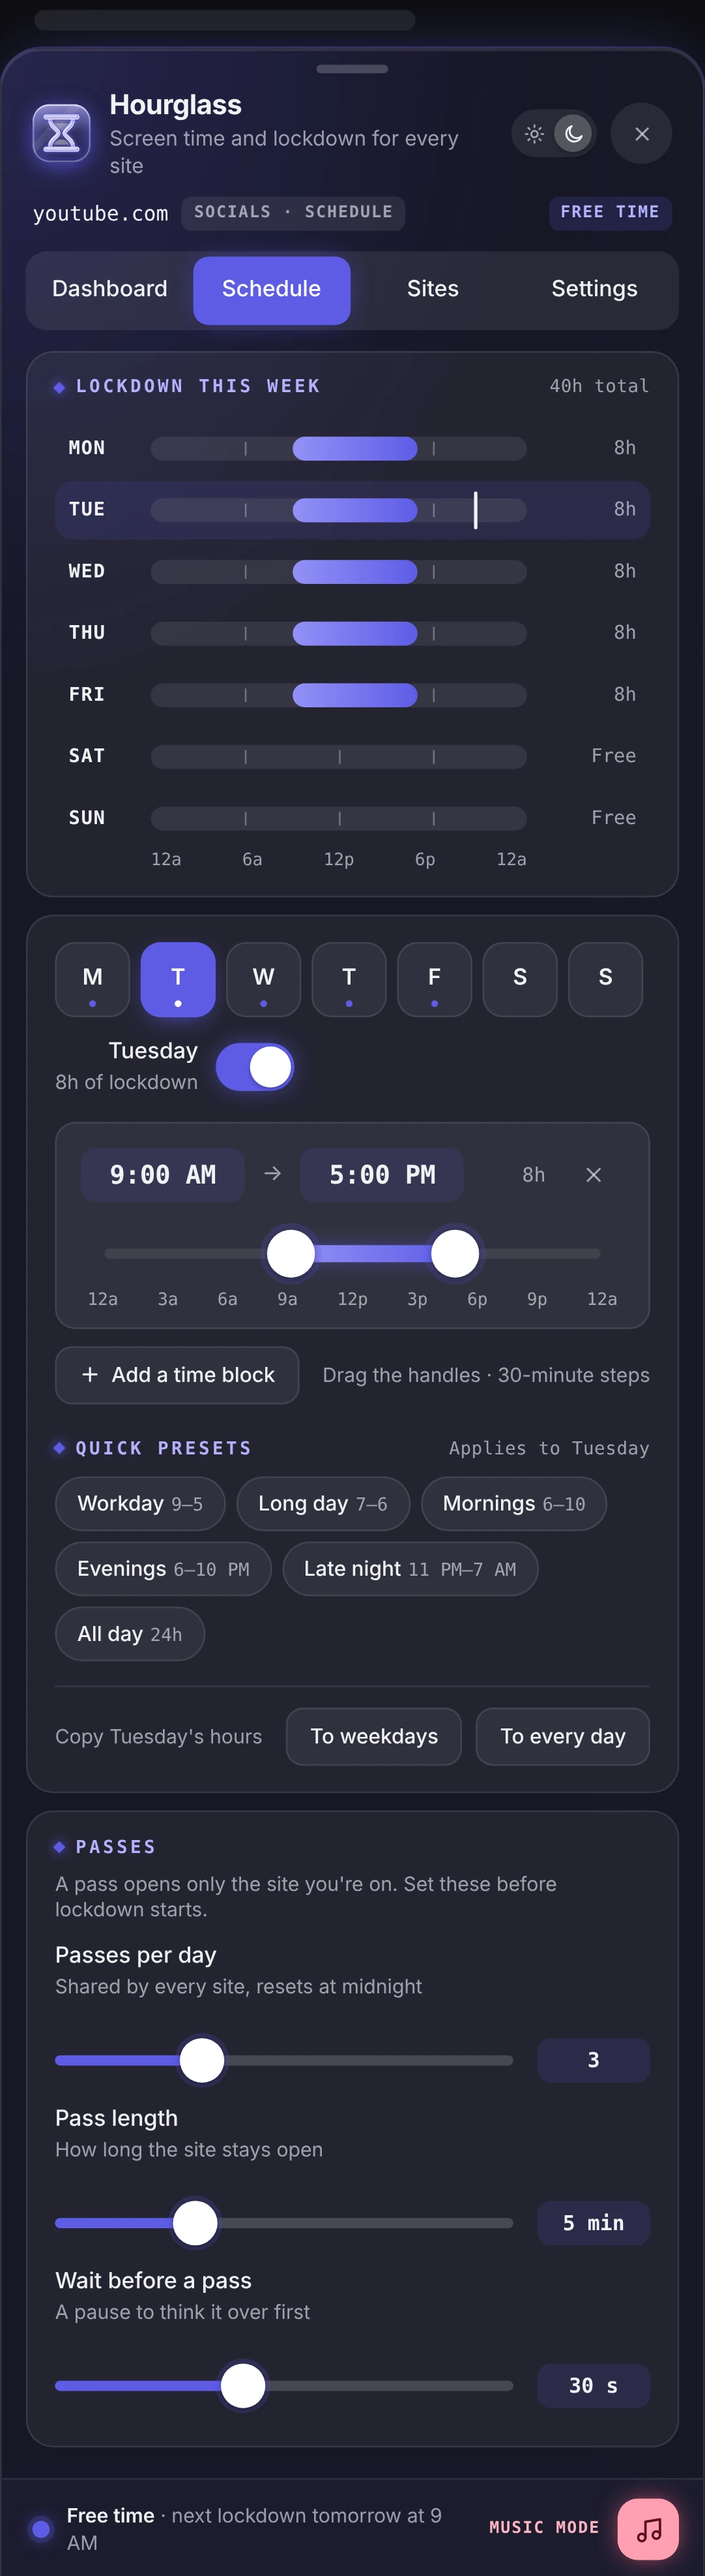
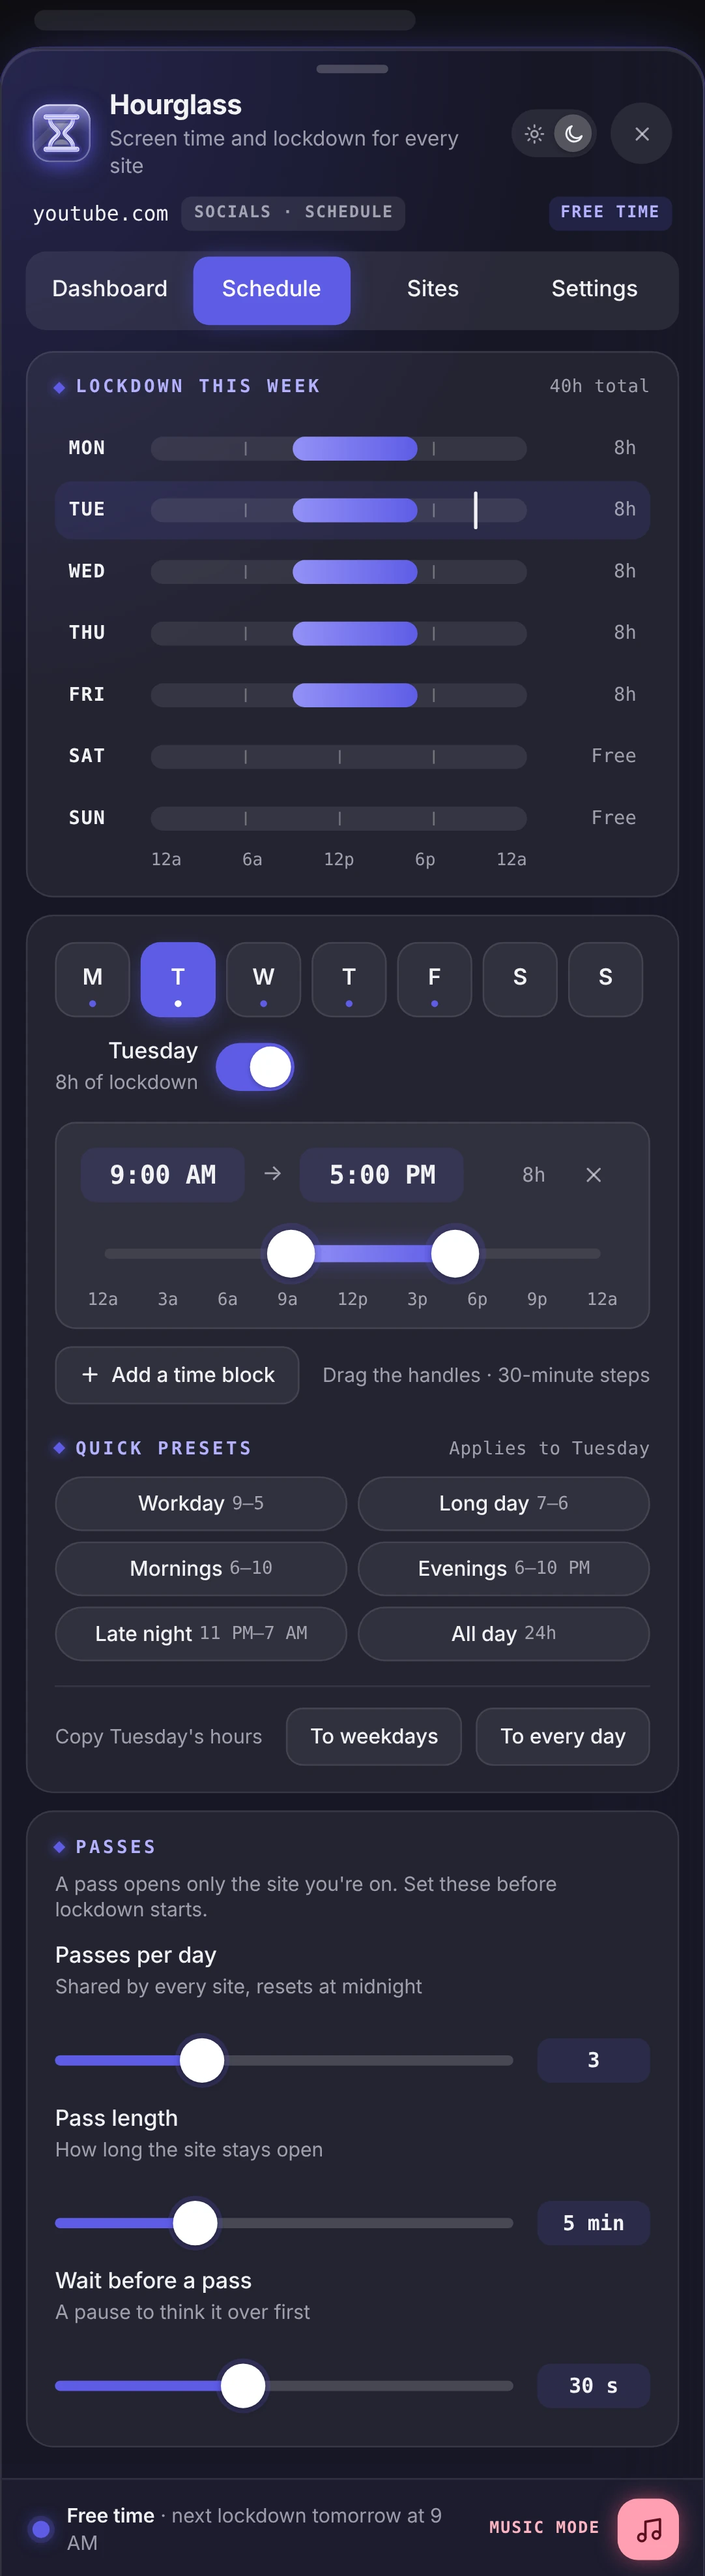
Hourglass 1.5.2: button groups sit in equal columns instead of wrapping unevenly
- Your data: the four buttons are one row on desktop and a 2 x 2 grid of equal
  buttons on phones (they wrapped 2 + 2 with Reset pushed off to the right)
- Quick presets: three equal columns on desktop, two on phones (they wrapped
  5 + 1, 3 + 2 + 1 or 2 + 2 + 2 depending on the width)

The audit now flags any row of buttons that wraps onto a second line without
lining up in columns; CLAUDE.md says to lay such groups out as one row or a grid.

diff --git a/desktop/hourglass/hourglass.user.js b/desktop/hourglass/hourglass.user.js
@@ -1,7 +1,7 @@
 // ==UserScript==
 // @name         Hourglass
 // @namespace    jigglypug
-// @version      1.5.1
+// @version      1.5.2
 // @description  Screen time for every site, plus a lockdown schedule that blocks distractions. Frosted dashboard with charts, schedule sliders, passes, Music mode, listening time and a late-night nudge. Works on phones too.
 // @match        *://*/*
 // @grant        GM_getValue
@@ -25,7 +25,7 @@
 
     /* ───────────────────────── constants ───────────────────────── */
 
-    const VERSION = (typeof GM_info !== 'undefined' && GM_info.script && GM_info.script.version) || '1.5.1';
+    const VERSION = (typeof GM_info !== 'undefined' && GM_info.script && GM_info.script.version) || '1.5.2';
     const CAT = {
         social: { n: 'Socials',  c: '#5E5CE6' },
         shop:   { n: 'Shopping', c: '#32ADE6' },
@@ -518,6 +518,8 @@ button:disabled{cursor:not-allowed}
 .btn{display:inline-flex;align-items:center;justify-content:center;gap:6px;height:34px;padding:0 13px;border-radius:10px;border:1px solid var(--line);background:var(--field);font-size:12px;font-weight:500;transition:background .15s,opacity .5s,transform .5s;white-space:nowrap}
 .btn:hover{background:var(--field-hi)}
 .btn:disabled{opacity:.45}
+.dbtns{display:grid;grid-template-columns:repeat(3,max-content) 1fr;gap:8px}
+.dbtns .danger{justify-self:end}
 .btn.primary{background:var(--fill);color:var(--on);border-color:transparent;box-shadow:0 4px 14px -6px rgba(var(--a-rgb),1)}
 .btn.primary:hover{filter:brightness(1.06)}
 .btn.sm{height:28px;padding:0 10px;font-size:11.5px;border-radius:8px}
@@ -1168,10 +1170,11 @@ h1 span{color:var(--ink)}
 .rng::-moz-range-thumb{pointer-events:auto;width:22px;height:22px;border-radius:50%;background:#fff;border:0;box-shadow:0 1px 4px rgba(0,0,0,.3),0 0 0 4px rgba(var(--a-rgb),.2);cursor:grab}
 .rng:focus-visible::-webkit-slider-thumb{box-shadow:0 0 0 3px var(--fill)}
 .ht{display:flex;justify-content:space-between;padding:0 4px;font:10px var(--mono);color:var(--sub)}
-.chips{display:flex;flex-wrap:wrap;gap:6px}
-.chip{height:32px;padding:0 12px;border-radius:16px;border:1px solid var(--line);background:var(--field);font-size:12px;font-weight:500}
+/* presets and data buttons sit in equal columns, never a ragged wrap */
+.chips{display:grid;grid-template-columns:repeat(3,minmax(0,1fr));gap:6px}
+.chip{display:inline-flex;align-items:center;justify-content:center;flex-wrap:wrap;column-gap:4px;min-height:32px;height:auto;padding:4px 10px;border-radius:16px;text-align:center;border:1px solid var(--line);background:var(--field);font-size:12px;font-weight:500}
 .chip:hover{background:var(--field-hi);border-color:rgba(var(--a-rgb),.5)}
-.chip small{color:var(--sub);font:10.5px var(--mono);margin-left:4px}
+.chip small{color:var(--sub);font:10.5px var(--mono)}
 .slr{display:grid;grid-template-columns:minmax(0,1fr) minmax(120px,210px) 66px;align-items:center;gap:14px;min-height:44px}
 .slr+.slr{margin-top:6px}
 .r1{-webkit-appearance:none;appearance:none;width:100%;height:28px;background:none;margin:0;outline:none}
@@ -1241,6 +1244,7 @@ h1 span{color:var(--ink)}
 .m .foot{padding-bottom:4px}
 .m .site{grid-template-columns:30px minmax(0,1fr) 46px 36px}.m .site>.seg{grid-column:2/-1;grid-row:2;justify-self:start}
 .m .slr{grid-template-columns:minmax(0,1fr) 66px}.m .slr>div:first-child{grid-column:1/-1}
+.m .dbtns{grid-template-columns:repeat(2,minmax(0,1fr))}.m .dbtns .btn{justify-self:stretch}.m .chips{grid-template-columns:repeat(2,minmax(0,1fr))}
 .m .srow2,.m .srow2.wa{grid-template-columns:30px minmax(0,1fr) 62px}.m .srow2 .spk{display:none}.m .srow2 .acts{grid-column:2/-1;justify-content:flex-start}.m .srow2 .acts:empty{display:none}
 /* the accent, never a neutral: browsers that darken pages themselves leave outlines alone */
 .bar.tapped>i,.bar.tapped>.sb,.hm i.tapped,.cal i.tapped{outline:2px solid var(--fill);outline-offset:2px;box-shadow:0 0 12px -2px rgba(var(--a-rgb),.9)}
@@ -1248,6 +1252,7 @@ h1 span{color:var(--ink)}
 .readout{margin-top:10px;font:500 11.5px var(--mono);color:var(--sub);min-height:16px}
 .readout.on{color:var(--text)}
 @media (max-width:620px){
+  .dbtns{grid-template-columns:repeat(2,minmax(0,1fr))}.dbtns .btn{justify-self:stretch}.chips{grid-template-columns:repeat(2,minmax(0,1fr))}
   .srow2,.srow2.wa{grid-template-columns:30px minmax(0,1fr) 62px}.srow2 .spk{display:none}.srow2 .acts{grid-column:2/-1;justify-content:flex-start}.srow2 .acts:empty{display:none}
   .site{grid-template-columns:30px minmax(0,1fr) 40px 30px}.site>.seg{grid-column:2/-1;grid-row:2;justify-self:start}
   .slr{grid-template-columns:minmax(0,1fr) 66px}.slr>div:first-child{grid-column:1/-1}
@@ -1880,11 +1885,11 @@ h1 span{color:var(--ink)}
             const armed = Date.now() - this.resetArm < 4000;
             const data = h('div', { class: 'tile full', style: 'margin-bottom:14px' }, this.label('Your data'),
                 h('div', { class: 'd', style: 'margin:-4px 0 12px', text: 'Saved only in Tampermonkey on this PC. Only site names are kept, never full addresses or page titles.' }),
-                h('div', { style: 'display:flex;gap:8px;flex-wrap:wrap' },
+                h('div', { class: 'dbtns' },
                     h('button', { class: 'btn', onclick: () => exportCSV() }, icon(ICONS.down, 13, 2.2), 'Export CSV'),
                     h('button', { class: 'btn', onclick: () => exportSettings() }, icon(ICONS.down, 13, 2.2), 'Export settings'),
                     h('button', { class: 'btn', disabled: lock, title: lock ? 'Import after lockdown' : null, onclick: () => importSettings(() => this.render()) }, icon(ICONS.up, 13, 2.2), 'Import settings'),
-                    h('button', { class: 'btn danger', style: 'margin-left:auto', disabled: lock, text: armed ? 'Click again to erase all stats' : 'Reset all stats',
+                    h('button', { class: 'btn danger', disabled: lock, text: armed ? 'Click again to erase' : 'Reset all stats',
                         onclick: () => { if (inLockdown()) return; if (Date.now() - this.resetArm < 4000) { resetStats(); this.resetArm = 0; } else this.resetArm = Date.now(); this.render(); } })));
             const look = h('div', { class: 'tile full' }, this.label('Appearance'),
                 h('div', { class: 'row' }, h('div', null, h('div', { class: 't', text: 'Match my device' }), h('div', { class: 'd', text: 'Light or dark follows your device until you flip the switch up top' })),

diff --git a/tools/shot.js b/tools/shot.js
@@ -276,6 +276,20 @@ function stubPage() {
         for (let i = 0; i < kids.length; i++) for (let j = i + 1; j < kids.length; j++) { const A = kids[i].getBoundingClientRect(), B = kids[j].getBoundingClientRect();
           const w = Math.min(A.right, B.right) - Math.max(A.left, B.left), h = Math.min(A.bottom, B.bottom) - Math.max(A.top, B.top); if (w > 2 && h > 2) add('overlaps', kids[i], 'with ' + name(kids[j]) + ' by ' + Math.round(w) + 'x' + Math.round(h)); }
       }
+      // button rows that wrap: a row of buttons (30px tall or more: actions, not chips) that spills onto a
+      // second line has to land as a grid, every line's buttons in the same columns; anything else (2 then 2
+      // of different widths, a lone button pushed to the right) reads as a mistake. Lay them out on purpose.
+      const groups = new Map();
+      for (const e of els) { if (e.tagName !== 'BUTTON') continue; const q = e.getBoundingClientRect(); if (q.height < 30 || !q.width) continue;
+        const p = e.parentElement; if (!p) continue; (groups.get(p) || groups.set(p, []).get(p)).push(q); }
+      for (const [p, qs] of groups) {
+        if (qs.length < 2) continue;
+        const rows = []; for (const q of qs.sort((a, b) => a.top - b.top || a.left - b.left)) { const r = rows.find(r => Math.abs(r[0].top - q.top) < 6); r ? r.push(q) : rows.push([q]); }
+        if (rows.length < 2) continue;
+        const cols = rows[0].map(q => q.left), w0 = rows[0].map(q => q.width);
+        const grid = rows.every(r => r.every((q, i) => i < cols.length && Math.abs(q.left - cols[i]) < 1.5 && Math.abs(q.width - w0[i]) < 1.5));
+        if (!grid) add('wrapped buttons', p, qs.length + ' buttons wrap onto ' + rows.length + ' lines (' + rows.map(r => r.length).join(' + ') + ') without lining up in columns; make them one row, or a grid of equal columns');
+      }
       // shape (tools/tokens.json): the panel's width and corners, the header's and tab bar's insets from
       // the panel's edge, and every rounded corner inside the panel on the radius scale (or nested
       // inside its parent's corner: the parent's radius less its padding)

diff --git a/docs/index.html b/docs/index.html
@@ -16,7 +16,7 @@
 <section id="both"><div class="label">Desktop and phone<span class="r">The same script, on your computer and your phone</span></div><div class="grid"><article class="card glass" style="--acc:#5b5bd6">
 <a class="shot" href="desktop/hourglass/"><img class="dk" src="img/hourglass/card.webp" alt="Hourglass settings panel" loading="lazy"><img class="lt" src="img/hourglass/card-light.webp" alt="Hourglass settings panel" loading="lazy"></a>
 <div class="body"><h3><img class="appicon" src="img/hourglass/icon.png" alt="" width="40" height="40"><a href="desktop/hourglass/">Hourglass</a></h3><p>Screen time and lockdown for every site.</p>
-<div class="meta"><span class="chip">Every site</span><span class="chip">Desktop + phone</span><span class="chip">v1.5.1</span></div>
+<div class="meta"><span class="chip">Every site</span><span class="chip">Desktop + phone</span><span class="chip">v1.5.2</span></div>
 <div class="acts"><a class="btn pri" href="https://raw.githubusercontent.com/JigglyPug/glassware/main/desktop/hourglass/hourglass.user.js">Install</a><a class="btn sec" href="desktop/hourglass/">Details</a></div></div></article><article class="card glass" style="--acc:#3b6fd6">
 <a class="shot" href="desktop/looking-glass/"><img class="dk" src="img/looking-glass/card.webp" alt="Looking-Glass settings panel" loading="lazy"><img class="lt" src="img/looking-glass/card-light.webp" alt="Looking-Glass settings panel" loading="lazy"></a>
 <div class="body"><h3><img class="appicon" src="img/looking-glass/icon.png" alt="" width="40" height="40"><a href="desktop/looking-glass/">Looking-Glass</a></h3><p>Open any video on its own.</p>

diff --git a/docs/desktop/hourglass/index.html b/docs/desktop/hourglass/index.html
@@ -13,7 +13,7 @@
 <img class="heroicon" src="../../img/hourglass/icon.png" alt="Hourglass icon" width="104" height="104">
 <div class="label">Desktop and phone userscript</div>
 <h1>Hourglass</h1><p class="tag">Screen time and lockdown for every site.</p><p class="intro">Hourglass tracks how long you spend on every site and blocks the distracting ones on a schedule. During lockdown the settings lock too, so you cannot talk yourself out of it in the moment.</p>
-<div class="chips"><span class="chip">Every site</span><span class="chip">Desktop + phone</span><span class="chip">v1.5.1</span></div>
+<div class="chips"><span class="chip">Every site</span><span class="chip">Desktop + phone</span><span class="chip">v1.5.2</span></div>
 <div class="acts"><a class="btn pri big" href="https://raw.githubusercontent.com/JigglyPug/glassware/main/desktop/hourglass/hourglass.user.js">Install Hourglass</a><a class="btn sec big" href="https://github.com/JigglyPug/glassware/blob/main/desktop/hourglass/hourglass.user.js">View source</a></div>
 </div><figure class="glass"><img class="dk" src="../../img/hourglass/main.webp" alt="Hourglass panel" loading="lazy"><img class="lt" src="../../img/hourglass/main-light.webp" alt="Hourglass panel" loading="lazy"></figure></header>
 <section><div class="label">Getting started</div><div class="note glass">A fresh install starts in setup mode: Hourglass counts your screen time but blocks nothing and locks no settings. Check your sites and schedule, then tap <b>Start lockdown</b> on the welcome card. If you start during scheduled hours, you can begin right away or wait until the current block ends.</div></section>

diff --git a/README.md b/README.md
@@ -25,7 +25,7 @@ Built for [Tampermonkey](https://www.tampermonkey.net/). Every script updates it
 ## Desktop and phone
 
 <table>
-<tr><td align="center" valign="top" width="50%"><a href="desktop/hourglass"><img src="desktop/hourglass/images/card-cut.webp" alt="Hourglass in light and dark" width="380"></a><br><h3><img src="assets/icons/hourglass.png" alt="" width="44" align="center"> <a href="desktop/hourglass">Hourglass</a></h3>Screen time and lockdown for every site.<br><sub>Every site</sub><br><br><a href="https://raw.githubusercontent.com/JigglyPug/glassware/main/desktop/hourglass/hourglass.user.js"><img src="https://img.shields.io/badge/Install-v1.5.1-5b5bd6?style=for-the-badge"></a></td><td align="center" valign="top" width="50%"><a href="desktop/looking-glass"><img src="desktop/looking-glass/images/card-cut.webp" alt="Looking-Glass in light and dark" width="380"></a><br><h3><img src="assets/icons/looking-glass.png" alt="" width="44" align="center"> <a href="desktop/looking-glass">Looking-Glass</a></h3>Open any video on its own.<br><sub>Every site</sub><br><br><a href="https://raw.githubusercontent.com/JigglyPug/glassware/main/desktop/looking-glass/looking-glass.user.js"><img src="https://img.shields.io/badge/Install-v1.2.3-3b6fd6?style=for-the-badge"></a></td></tr>
+<tr><td align="center" valign="top" width="50%"><a href="desktop/hourglass"><img src="desktop/hourglass/images/card-cut.webp" alt="Hourglass in light and dark" width="380"></a><br><h3><img src="assets/icons/hourglass.png" alt="" width="44" align="center"> <a href="desktop/hourglass">Hourglass</a></h3>Screen time and lockdown for every site.<br><sub>Every site</sub><br><br><a href="https://raw.githubusercontent.com/JigglyPug/glassware/main/desktop/hourglass/hourglass.user.js"><img src="https://img.shields.io/badge/Install-v1.5.2-5b5bd6?style=for-the-badge"></a></td><td align="center" valign="top" width="50%"><a href="desktop/looking-glass"><img src="desktop/looking-glass/images/card-cut.webp" alt="Looking-Glass in light and dark" width="380"></a><br><h3><img src="assets/icons/looking-glass.png" alt="" width="44" align="center"> <a href="desktop/looking-glass">Looking-Glass</a></h3>Open any video on its own.<br><sub>Every site</sub><br><br><a href="https://raw.githubusercontent.com/JigglyPug/glassware/main/desktop/looking-glass/looking-glass.user.js"><img src="https://img.shields.io/badge/Install-v1.2.3-3b6fd6?style=for-the-badge"></a></td></tr>
 </table>
 
 ## Desktop

diff --git a/CLAUDE.md b/CLAUDE.md
@@ -283,14 +283,16 @@ python3 tools/check.py              # release check: everything below, plus the 
   ("hard to see"), switches whose knob isn't centered, shared controls off the sizes above, and
   labels that take the site's own text color (the site CSS uses the opposite theme's colors),
   with a chart bar tapped as well, and does the same for what a script draws
-  outside its panel (`SURFACES` in `tools/audit.py`: block screen, nudge, badge menu; add new ones there). `node tools/shot.js … --forcedark` opens a page
+  outside its panel (`SURFACES` in `tools/audit.py`: block screen, nudge, badge menu; add new ones there). It also flags
+  a row of buttons (30px and taller) that wraps onto a second line without lining up in columns:
+  lay such rows out as one row, or as a grid of equal columns (two per row on phones). `node tools/shot.js … --forcedark` opens a page
   the way browsers that darken pages themselves show it, to look at by eye. Fix what it finds before shipping; it should print
   "clean" for every script.
 - Panels that live in the page (not a shadow root) inherit the site's CSS: undo text rules like
   `white-space` on the panel itself. Their buttons get one reset in the stamped frame (normal
   display, auto height, centered content), because sites like Reddit give every button a fixed
   height with its text pushed to the bottom; the audit's site CSS does the same and flags any
-  button whose text isn't centered. Picker grids use equal columns
+  button whose text isn't centered. Picker grids and any group of buttons that can wrap use equal columns
   (`minmax(0,1fr)`) and drop to 3 per row when a label is long, so labels wrap instead of
   spilling. Phone sheets size with `dvh` (after a `vh` fallback) so the address and tool bars
   never cover the top.

diff --git a/desktop/hourglass/README.md b/desktop/hourglass/README.md
@@ -4,7 +4,7 @@
 
 <img src="images/banner.svg" alt="Hourglass: Screen time and lockdown for every site." width="100%">
 
-[![Install](https://img.shields.io/badge/Install-v1.5.1-5b5bd6?style=for-the-badge)](https://raw.githubusercontent.com/JigglyPug/glassware/main/desktop/hourglass/hourglass.user.js) [![Website](https://img.shields.io/badge/Website-product%20page-222?style=for-the-badge)](https://jigglypug.github.io/glassware/desktop/hourglass/)
+[![Install](https://img.shields.io/badge/Install-v1.5.2-5b5bd6?style=for-the-badge)](https://raw.githubusercontent.com/JigglyPug/glassware/main/desktop/hourglass/hourglass.user.js) [![Website](https://img.shields.io/badge/Website-product%20page-222?style=for-the-badge)](https://jigglypug.github.io/glassware/desktop/hourglass/)
 
 ![Runs on](https://img.shields.io/badge/runs%20on-Every%20site-555?style=flat-square) ![Platform](https://img.shields.io/badge/platform-Desktop%20%2B%20phone-555?style=flat-square)
 
